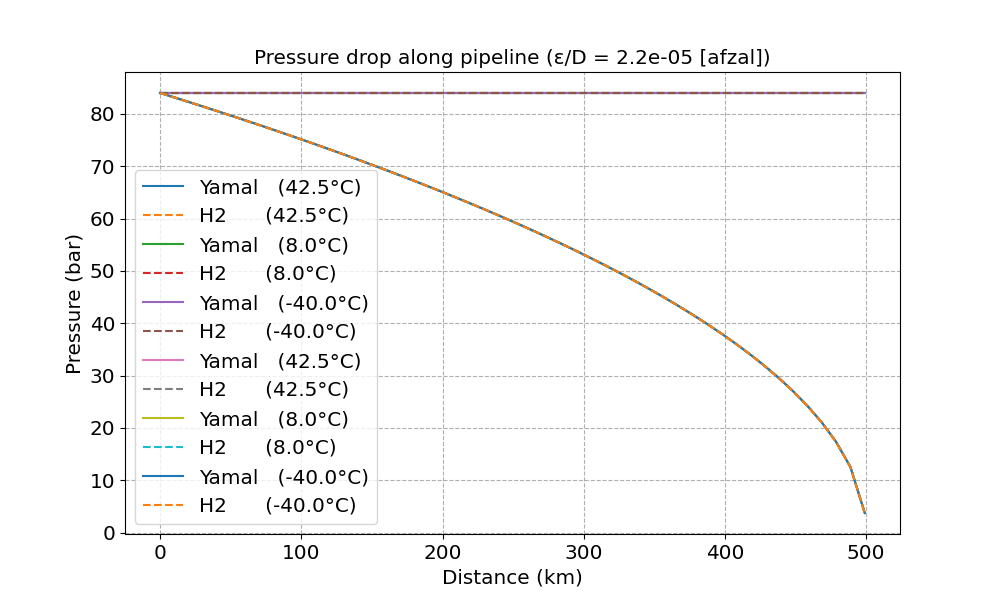
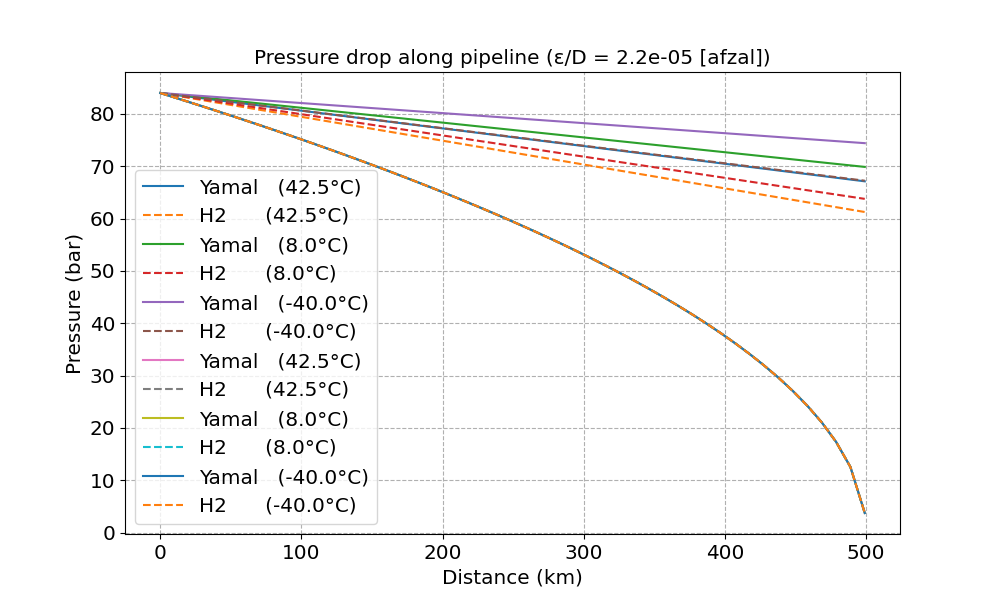
gradient not chnaging with x

Changed region(s): [[0.155, 0.15, 0.868, 0.36]]

diff --git a/moody.py b/moody.py
@@ -518,36 +518,6 @@ def funct_B(g, Qg, T, D):
     return T * funct_B_sub(g, Qg, D)
 
 @memoize
-def d_p37(x, g, T, P, f_function, rr, D, Qh):
-    """This is the near-ideal version of the equations, where the inertial term and 
-    the dZ/dP terms are omitted
-    
-    In all this we need to be careful with units: all in SI m^3 and N and Pa,
-    not litres or bars or g/mol.
-    """
-    
-    # eqn(38)
-    # dP/dx = - B f Z / (2 D P)
-    Qg = kg_from_GW(g, Qh) # kg/s
-    B = funct_B(g, Qg, T, D) # Pa^2 / m
-    Z = get_z(g, P, T) # dimensionless
-
-    v = get_v_from_Q(g, T, P, Qg, D)
-    μ = get_viscosity(g, P, T, visc_f) #in μPa.s 
-    μ = μ * 1e-6 # in Pa.s
-    
-    ϱ = get_density(g, P, T) # kg/m^3
-
-    Re = ϱ * v * D / μ # dimensionless as Pa ≡ N/m^2 and kg.m/s^2 ≡ N
-    ff = f_function(Re, rr) # afzal(reynolds, relative_roughness), dimensionless
-    # print (f"--{g:7}  {ff=:.3e} {Re=:0.3e}  {ϱ=:8.4f}  {Z=:0.5f}  {v=:0.3f} m/s {μ=:8.2e} Pa.s")
-    P = P *1e5 # convert bar to Pa
-    gradient  =  - B * ff * Z  / (2 * D * P) # (P1 - P2)/L # Pa /m
-    gradient = gradient * 1e-5 # bar/m
-    #print (f"--{g:7} P={P/1e5:0.5f} bar  {B=:0.5e} Pa^2 gradient={gradient*1000:0.5e} bar/km")
-    return gradient
-    
-@memoize
 def d_pipe(L, g, T, P, f_function, rr, D, Qh):
     r""" Equation 36 {Sargent2024b}
     \begin{equation}
@@ -612,19 +582,48 @@ def int_d_pint(L, g, P0, f, rr, D):
     #print(f"{int(L/1000):5} km {p:8.3f} bar  {original:8.3f} bar     {p-original:9.3f}")
     return p
     
-def int_d_p(L, g, T, P0, f_function, rr, D, Qh):
+def int_dp37(L, g, T, P0, f_function, rr, D, Qh):
     """Given that we have only a pressure gradient, calculate the pressure drop
     as an integral of that"""
     
     # def d_p(g, T, P, f_function, rr, D, Qh):
 
    
-    grad, est_err_quad = quad(d_pipe, 2, L, args=(g, T, P0, f_function, rr, D, Qh))
+    grad, est_err_quad = quad(dp37, 2, L, args=(g, T, P0, f_function, rr, D, Qh))
     p = grad + P0
     
     print(f"{int(L/1000):5} km {p:8.3f} bar {grad=:8.3e} bar ")
     return p
- 
+
+@memoize
+def dp37(x, g, T, P, f_function, rr, D, Qh):
+    """This is the near-ideal version of the equations, where the inertial term and 
+    the dZ/dP terms are omitted
+    
+    In all this we need to be careful with units: all in SI m^3 and N and Pa,
+    not litres or bars or g/mol.
+    """
+    
+    # eqn(38)
+    # dP/dx = - B f Z / (2 D P)
+    Qg = kg_from_GW(g, Qh) # kg/s
+    B = funct_B(g, Qg, T, D) # Pa^2 / m
+    Z = get_z(g, P, T) # dimensionless
+
+    v = get_v_from_Q(g, T, P, Qg, D)
+    μ = get_viscosity(g, P, T, visc_f) #in μPa.s 
+    μ = μ * 1e-6 # in Pa.s
+    
+    ϱ = get_density(g, P, T) # kg/m^3
+
+    Re = ϱ * v * D / μ # dimensionless as Pa ≡ N/m^2 and kg.m/s^2 ≡ N
+    ff = f_function(Re, rr) # afzal(reynolds, relative_roughness), dimensionless
+    # print (f"--{g:7}  {ff=:.3e} {Re=:0.3e}  {ϱ=:8.4f}  {Z=:0.5f}  {v=:0.3f} m/s {μ=:8.2e} Pa.s")
+    P = P *1e5 # convert bar to Pa
+    gradient  =  - B * ff * Z  / (2 * D * P) # (P1 - P2)/L # Pa /m
+    gradient = gradient * 1e-5 # bar/m
+    #print (f"--{g:7} P={P/1e5:0.5f} bar  {B=:0.5e} Pa^2 gradient={gradient*1000:0.5e} bar/km")
+    return gradient
         
 def plot_pipeline(title_in, output, plot="linear", fff=afzal):
     # Derived from plot_pt_diagram(), all need refactoring
@@ -654,14 +653,14 @@ def plot_pipeline(title_in, output, plot="linear", fff=afzal):
     rr0 = 2.2e-5 # Yamal
     P0 = 84 # bar Yamal
     Qstp = 2019950 / 3600 # m^3(STP) /hour => m^3(STP)/s
-    ϱstp = get_density('Yamal', Atm, T273+15)
+    ϱstp = get_density('Yamal', Atm, T273+15) # STP
     ϱ = get_density('Yamal', P0, T273+42.5)
     Qv = Qstp * ϱstp / ϱ # volume actually at 84 bar
     Qg = Qv * ϱ # kg/s
-    # Q = 390.63 # kg /s Yamal gas
+    # Qg = 390.63 # kg /s Yamal gas
     Qh = GW_from_kg('Yamal', Qg)
-    print(f"{Qv=:9.4f} m^3/s at {P0} bar and 42.5 C  {Qg=:9.4f} kg/s {Qh=:9.4f} GW")
     # Qh = 21.1851 # GW = 10^3 MJ/s - use this as baseline and convert to Q for each gas
+    print(f"YAMAL PIPELINE {Qv=:9.4f} m^3/s at {P0} bar and 42.5 C  {Qg=:9.4f} kg/s {Qh=:9.4f} GW")
     L_pipe = 500e3
     x_range = np.linspace(1, L_pipe-1000, 50) # 500 km
 
@@ -672,9 +671,6 @@ def plot_pipeline(title_in, output, plot="linear", fff=afzal):
     
     for f in fff: # several different friction factor functions
         plt.figure(figsize=(10, 6))
-
-       # (b) This is eqn(37) direct calculated differential curve
-        
         
         # (b) This is eqn(37) direct calculated differential curve
         plt.figure(figsize=(10, 6))
@@ -685,14 +681,13 @@ def plot_pipeline(title_in, output, plot="linear", fff=afzal):
         for t in t_range:
             T = T273+t
             lab =  f" ({T-T273:.1f}°C)"
-            # Calculate the curves 
 
             p_x = {}
             for g in ['Yamal', 'H2']:
                 label = f"{g:7}" + lab
                 print(label)
                 # eqn 36 p_x[T] = [d_pipe(g, T, P0, f, rr0, D, Qh)*1e3 for x in x_range]
-                p_x[T] = [d_p37(x, g, T, P0, f, rr0, D, Qh)*1e3 for x in x_range] # eqn 38
+                p_x[T] = [dp37(x, g, T, P0, f, rr0, D, Qh)*1e3 for x in x_range] 
                 plotit(g, p_x, plot, f, label)
 
         plt.ylabel('Pressure gradient (bar/km)')
@@ -716,14 +711,14 @@ def plot_pipeline(title_in, output, plot="linear", fff=afzal):
                 print(label)
                 # def d_p37(g, T, P, f_function, rr, D, Qh):
 
-                p_x[T] = [int_d_p(x, g, T, P0, f, rr0, D, Qh) for x in x_range]
+                p_x[T] = [int_dp37(x, g, T, P0, f, rr0, D, Qh) for x in x_range]
                 plotit(g, p_x, plot, f, label)
 
         plt.ylabel('Pressure (bar)')
         saveit(title,filename)
 
         #
-        # Now the SQRT fudge to see what sort of function it looks like
+        # Now the SQRT fudge to see what sort of function it looks like - - -- - - - -- - --- -- -- --
         #
         fn = f"{f.__name__}"
         title = title_in + f" (ε/D = {rr0} [{fn}])"
